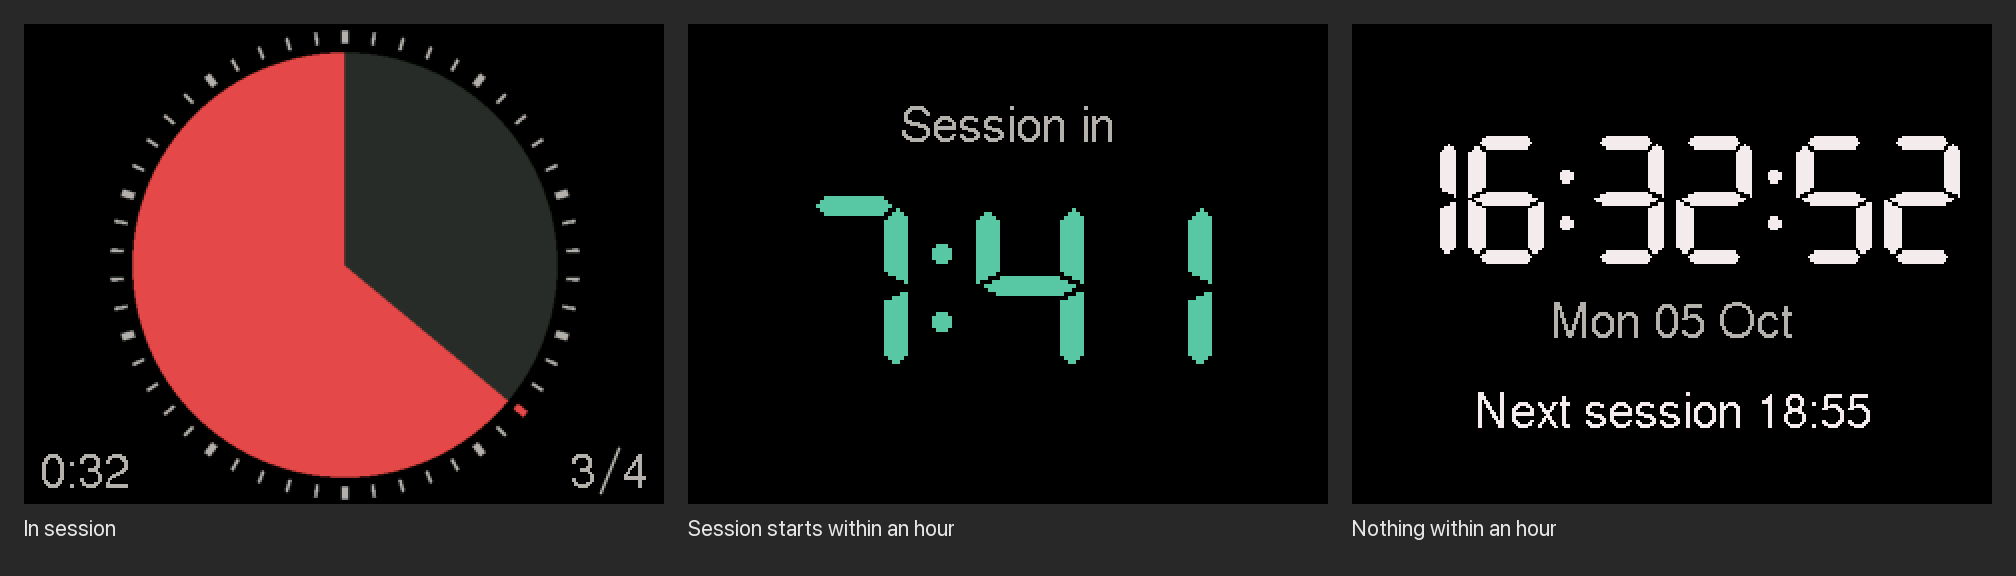
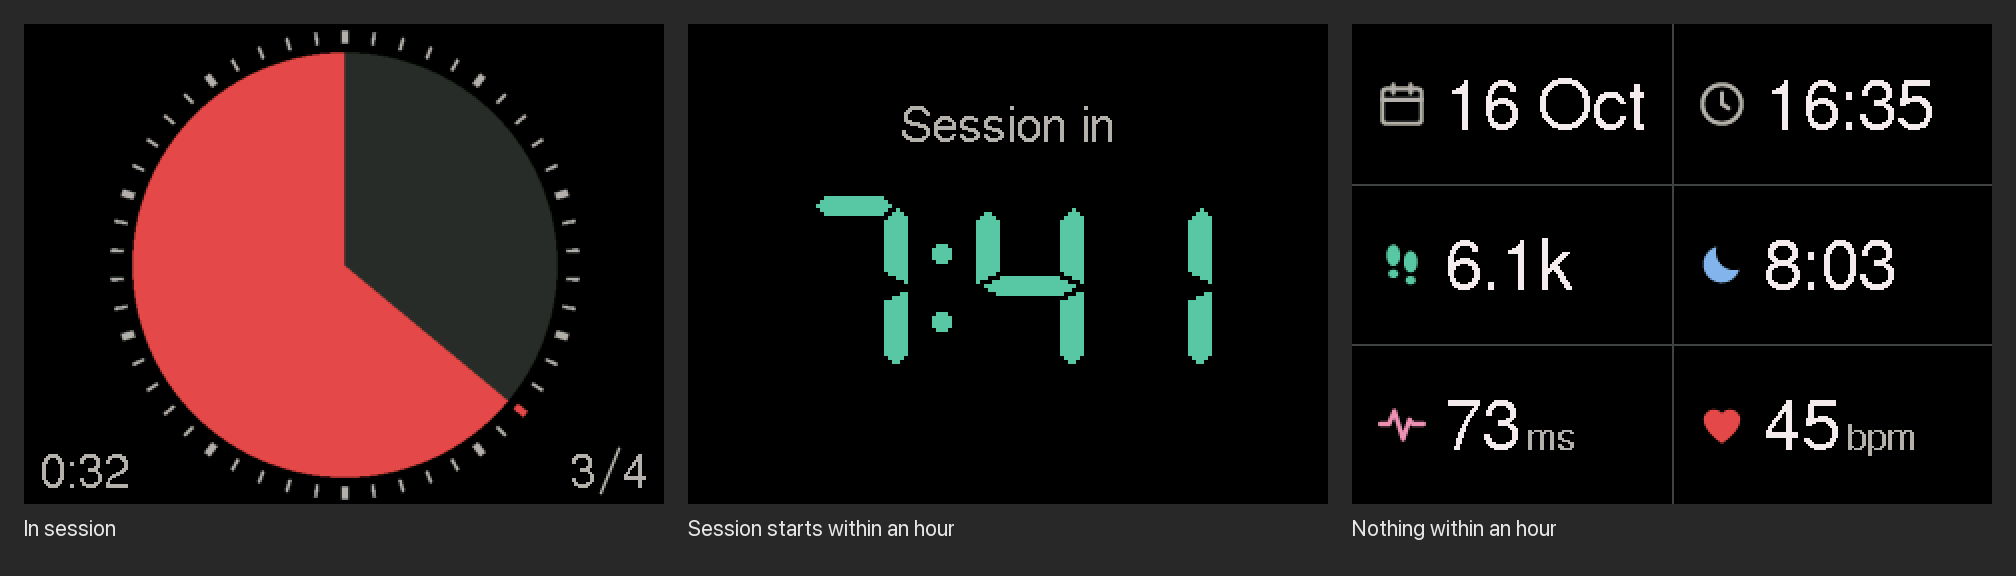
Update the README for the health dashboard
Swap the old clock in the picture for a capture of the dashboard, and
explain how to change it with the HTML sketch and tools/icons.py.

Changed region(s): [[0.6875, 0.125, 1.0, 0.5], [0.6875, 0.6875, 0.9688, 0.7812], [0.6875, 0.5312, 0.9688, 0.625]]

diff --git a/README.md b/README.md
@@ -1,12 +1,12 @@
 # focusmate-hw
 
-A desk display for [Focusmate](https://www.focusmate.com) sessions on an M5Stack Core2, in the spirit of a Time Timer. It reads your booked sessions from the Focusmate API and shows one of three screens:
+A desk display for [Focusmate](https://www.focusmate.com) sessions on an M5Stack Core2, in the spirit of a Time Timer. It reads your booked sessions from the Focusmate API and shows one of three screens, and between sessions a small health dashboard:
 
 ![The three screens, captured from the device](docs/screens.png)
 
 - **In session:** a pie that starts full and empties clockwise a minute at a time, inside a ring with a tick per minute. The tick of the running minute is red. The bottom left corner shows the time left, like 0:15. When several sessions are booked back to back, the bottom right shows which one is running, like 3⁄4.
 - **Session starts within an hour:** a countdown.
-- **Otherwise:** a dashboard, a grid with the date, the time and today's steps, sleep, HRV and resting heart rate, each with an icon. The health numbers come from [Moonlite](https://moonlite.im), which syncs them from Garmin.
+- **Otherwise:** a dashboard, a grid with the date, the time and today's steps (6.1k), sleep (8:03), HRV and resting heart rate, each marked by an icon instead of a label. The health numbers come from [Moonlite](https://moonlite.im), which syncs them from Garmin.
 
 The speaker plays two rising notes one minute before a session and three notes when it starts, and ticks quietly every second while it runs. Two descending notes at the same volume sound one minute before it ends.
 
@@ -34,8 +34,20 @@ pio run -t upload
 - Another task asks Moonlite's `GET /api/v1/stats/today` every 5 minutes for the health numbers. A number Moonlite doesn't have yet shows as `--`.
 - The pie and the countdown run off the device's clock, which is synced from the internet, so they keep going between requests.
 - The pie and its ticks are drawn at twice their size into an off-screen canvas in the Core2's PSRAM and shrunk onto the screen, which smooths their edges.
-- The dashboard draws straight onto the screen. Its icons are SVGs in `tools/sketch/dashboard.html`, a page for trying the layout in a browser; `tools/icons.py` turns them into `src/icons.h`.
+- The dashboard draws straight onto the screen, at full brightness all the time.
 - The device has no sleep mode and is meant to stay on USB power.
+
+## Changing the dashboard
+
+`tools/sketch/dashboard.html` is a sketch of the dashboard to open in a browser: the 320x240 screen scaled up, in the device's colors, with fields to try other values. Work out a change there first, then make it in `src/screens.cpp`.
+
+The icons live in the sketch as SVGs. After changing one, turn them into the bitmaps the firmware draws:
+
+```sh
+uv run --with resvg-py --with pillow python tools/icons.py
+```
+
+It renders each icon at 26 pixels and writes its coverage to `src/icons.h`, which the firmware blends onto the screen in the icon's color.
 
 ## Screenshots from the device
 
@@ -46,7 +58,7 @@ pio run -e debug -t upload
 uv run --with pyserial --with pillow python tools/screenshot.py p tools/out/pie.png /dev/cu.usbserial-XXXX
 ```
 
-The first argument is a string of commands sent before the capture: `p` pie, `b` pie as the third of four sessions in a row, `q` pie in its last minute, `c` countdown, `w` a session starting in 63 seconds (to hear the chimes), `n` clock with a later session, `e` nothing booked, `-` capture only. A test session lasts until the next real fetch, at most a minute.
+The first argument is a string of commands sent before the capture: `p` pie, `b` pie as the third of four sessions in a row, `q` pie in its last minute, `c` countdown, `w` a session starting in 63 seconds (to hear the chimes), `n` dashboard with a later session, `e` dashboard with nothing booked, `-` capture only. A test session lasts until the next real fetch, at most a minute.
 
 Flash the normal build again when you're done.
 
